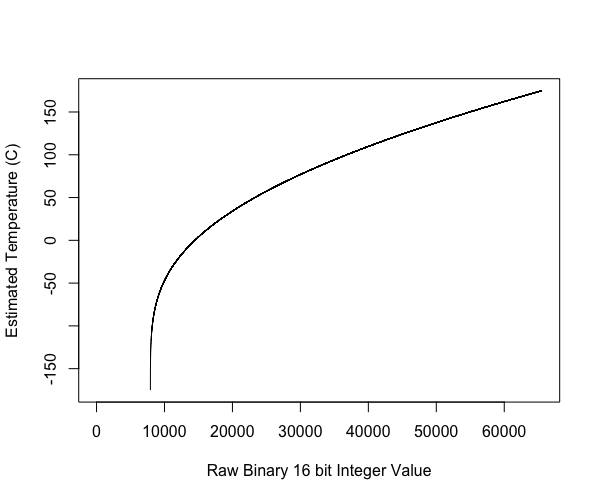
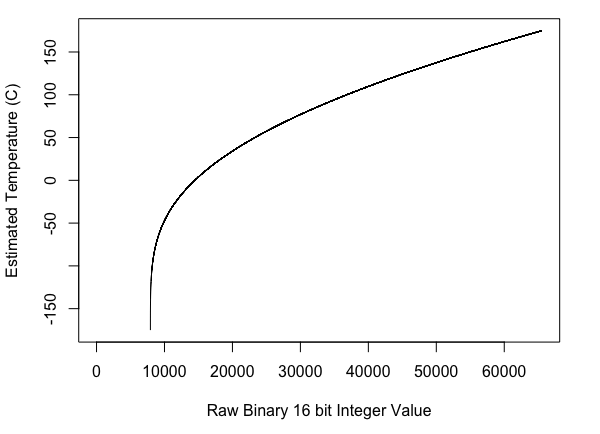
readme

diff --git a/README.md b/README.md
@@ -71,8 +71,10 @@ library(Thermimage)
 f<-paste0(system.file("extdata/IR_2412.jpg", package="Thermimage"))
 img<-readflirJPG(f, exiftoolpath="installed")
 dim(img)
+
+> [1] 480 640
 ```
-[1] 480 640
+
 
 The readflirJPG function has used Exiftool to figure out the resolution and properties of the image file.  Above you can see the dimensions are listed as 480 x 640.  Before plotting or doing any temperature assessments, let's extract the meta-tages from the thermal image file.
 
@@ -88,27 +90,29 @@ This produes a rather long list of meta-tags.  If you only want to see your came
 ```
 plancks<-flirsettings(f, exiftoolpath="installed", camvals="-*Planck*")
 unlist(plancks$Info)
-```
- PlanckR1       PlanckB       PlanckF       PlanckO      PlanckR2 
- 2.110677e+04  1.501000e+03  1.000000e+00 -7.340000e+03  1.254526e-02 
 
+> PlanckR1       PlanckB       PlanckF       PlanckO      PlanckR2 
+> 2.110677e+04  1.501000e+03  1.000000e+00 -7.340000e+03  1.254526e-02 
+```
 
 If you want to check the file data information, type:
 ```
 cbind(unlist(cams$Dates))
+
+> FileModificationDateTime "2017-03-22 22:15:09"
+> FileAccessDateTime       "2017-03-22 23:27:31"
+> FileInodeChangeDateTime  "2017-03-22 22:15:10"
+> ModifyDate               "2013-05-09 16:22:23"
+> CreateDate               "2013-05-09 16:22:23"
+> DateTimeOriginal         "2013-05-09 22:22:23"
 ```
-FileModificationDateTime "2017-03-22 22:15:09"
-FileAccessDateTime       "2017-03-22 23:27:31"
-FileInodeChangeDateTime  "2017-03-22 22:15:10"
-ModifyDate               "2013-05-09 16:22:23"
-CreateDate               "2013-05-09 16:22:23"
-DateTimeOriginal         "2013-05-09 22:22:23"
 
 or just:
 ```
 cams$Dates$DateTimeOriginal
+
+> [1] "2013-05-09 22:22:23"
 ```
-[1] "2013-05-09 22:22:23"
 
 The most relevant variables to extract for calculation of temperature values from raw A/D sensor data are listed here.  These can all be extracted from the cams output as above. I have simplified the output below, since dealing with lists can be awkward.
 
@@ -137,9 +141,9 @@ w<-           cams$Info$RawThermalImageWidth          # sensor width (i.e. image
 Now you have the img loaded, look at the values:
 ```
 str(img)
-```
- int [1:480, 1:640] 18090 18074 18064 18061 18081 18057 18092 18079 18071 18071 ...
 
+> int [1:480, 1:640] 18090 18074 18064 18061 18081 18057 18092 18079 18071 18071 ...
+```
 
 If stored with a TIFF header, the data load in as a pre-allocated matrix of the same dimensions of the thermal image, but the values are integers values, in this case ~18000.  The data are stored as in binary/raw format at 2^16 bits of resolution = 65535 possible values, starting at 1.  These are not temperature values.  They are, in fact, radiance values or absorbed infrared energy values in arbitrary units.  That is what the calibration constants are for.  The conversion to temperature is a complicated algorithm, incorporating Plank's law and the Stephan Boltzmann relationship, as well as atmospheric absorption, camera IR absorption, emissivity and distance to namea  few.  Each of these raw/binary values can be converted to temperature, using the raw2temp function:
 
@@ -147,9 +151,9 @@ If stored with a TIFF header, the data load in as a pre-allocated matrix of the 
 temperature<-raw2temp(img, ObjectEmissivity, OD, ReflT, AtmosT, IRWinT, IRWinTran, RH,
                       PlanckR1, PlanckB, PlanckF, PlanckO, PlanckR2)
 str(temperature)      
-```
-num [1:480, 1:640] 23.7 23.6 23.6 23.6 23.7 ...
 
+> num [1:480, 1:640] 23.7 23.6 23.6 23.6 23.7 ...
+```
 
 The raw binary values are now expressed as temperature in degrees Celsius (apologies to Lord Kelvin).  Let's plot the temperature data: 
 
@@ -157,6 +161,7 @@ The raw binary values are now expressed as temperature in degrees Celsius (apolo
 library(fields) # should be loaded imported when installing Thermimage
 plotTherm(t(temperature), h, w)
 ```
+
 ![FLIR JPG on import](https://github.com/gtatters/Thermimage/blob/master/READMEimages/FlirJPGdefault.png?raw=true)
 
 The FLIR jpg imports as a matrix, but default plotting parameters leads to it being rotated 270 degrees (counter clockwise) from normal perspective, so you should either rotate the matrix data before plotting, or include the rotate270.matrix transformation in the call to the plotTherm function:
@@ -190,10 +195,13 @@ plotTherm(temperature, w=w, h=h, minrangeset = 21, maxrangeset = 32, trans="rota
 Finding a way to quantitatively analyse thermal images in R is a challenge due to limited interactions with the graphics environment.  Thermimage has a function that allows you to write the image data to a file format that can be imported into ImageJ.  
 
 First, the image matrix needs to be transposed (t) to swap the row vs. column order in which the data are stored, then the temperatures need to be transformed to a vector, a requirement of the writeBin function.  The function writeFlirBin is a wrapper for writeBin, and uses information on image width, height, frame number and image interval (the latter two are included for thermal video saves) but are kept for simplicity to contruct a filename that incorporates image information required when importing to ImageJ:
+
 ```
 writeFlirBin(as.vector(t(temperature)), templookup=NULL, w=w, h=h, I="", rootname="FLIRjpg")
 ```
+
 The raw file can be found here: https://github.com/gtatters/Thermimage/blob/master/READMEimages/FLIRjpg_W640_H480_F1_I.raw?raw=true
+
 
 # Import Raw File into ImageJ
 The .raw file is simply the pixel data saved in raw format but with real 32-bit precision.  This means that the temperature data (negative or positive values) are encoded in 4 byte chunks.  ImageJ has a plethora of import functions, and the File-->Import-->Raw option provides great flexibility.  Once opening the .raw file in ImageJ, set the width, height, number of images (i.e. frames or stacks), byte storage order (little endian), and hyperstack (if desired):
@@ -210,6 +218,7 @@ The image imports clearly just as it would in a thermal image program.  Each pix
 Importing thermal videos (March 2017: still in development) is a little more involved and less automated, but below are steps that have worked for seq and fcf files tested.
 
 Set file info and extract meta-tags as done above:
+
 ```
 # set filename as v
 v<-paste0(system.file("extdata/SampleSEQ.seq", package="Thermimage"))
@@ -226,10 +235,19 @@ Create a lookup variable to convert the raw binary to actual temperature estimat
 suppressWarnings(
 templookup<-raw2temp(raw=1:65535, E=camvals$Info$Emissivity, OD=camvals$Info$ObjectDistance, RTemp=camvals$Info$ReflectedApparentTemperature, ATemp=camvals$Info$AtmosphericTemperature, IRWTemp=camvals$Info$IRWindowTemperature, IRT=camvals$Info$IRWindowTransmission, RH=camvals$Info$RelativeHumidity, PR1=camvals$Info$PlanckR1,PB=camvals$Info$PlanckB,PF=camvals$Info$PlanckF,PO=camvals$Info$PlanckO,PR2=camvals$Info$PlanckR2)
 )
-
+plot(templookup, type="l", xlab="Raw Binary 16 bit Integer Value", ylab="Estimated Temperature (C)")
 ```
 
 ![Binary to Temperature Conversion](https://github.com/gtatters/Thermimage/blob/master/READMEimages/CalibrationCurve.png?raw=true)
+
+The advantage of using the templookup variable is in its index capacity.  For computations involving large files, this is most efficient way to convert the raw binary values rapidly without having to call the raw2temp function repeatedly.  Thus, for a raw binary value of 17172, 18273, and 24932:
+
+```
+templookup[c(17172, 18273, 24932)]
+
+> [1] 18.30964 24.77935 57.07821
+
+```
 
 
 Using the width and height information, we use this to find where in the video file these are stored.  This corresponds to reproducible locations in the frame header:
@@ -253,8 +271,8 @@ Then pass the fl data to two different functions, one to extract the time inform
 extract.times<-do.call("c", lapply(fl$h.start, getTimes, vidfile=v))
 data.frame(extract.times)
 ```
-            extract.times
 1 2012-06-13 15:52:08.698
+
 2 2012-06-13 15:52:12.665
 ```
 Interval<-signif(mean(as.numeric(diff(extract.times))),3)
